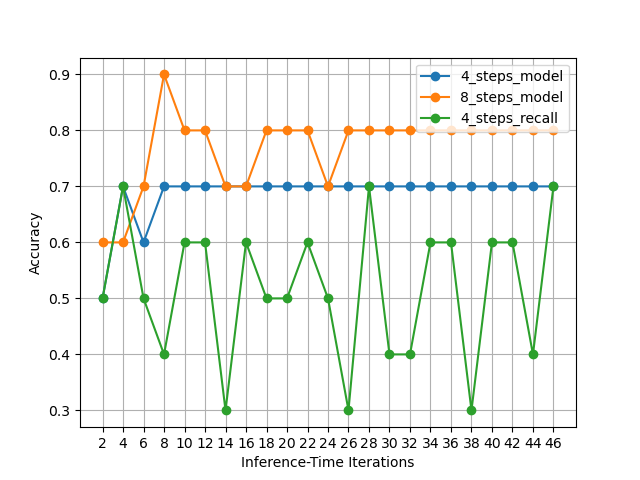
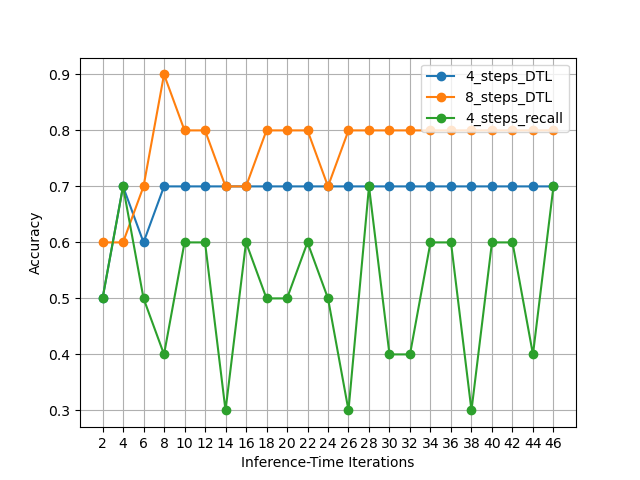
Update

Changed region(s): [[0.6562, 0.125, 0.875, 0.2812]]

diff --git a/code/visualise.py b/code/visualise.py
@@ -43,14 +43,14 @@ def parse_training_log(data):
 
 
 def get_acc_at_iteration_steps(model_path, dataset, device):
-    dataset = ClevrDataset(cfg.DATASET.DATA_DIR, dataset, 'val')
+    dataset = ClevrDataset(cfg.DATASET.DATA_DIR, dataset, 'train_org_long')
     loader = torch.utils.data.DataLoader(dataset, batch_size=cfg.TRAIN.BATCH_SIZE, shuffle=False, drop_last=False, num_workers=cfg.WORKERS, collate_fn=collate_fn)
 
     vocab = mac.load_vocab(cfg)
 
     all_accuracies = []
 
-    for steps in range(4, cfg.TRAIN.MAX_STEPS+1,4):
+    for steps in range(2, cfg.TRAIN.MAX_STEPS+1,2):
         print(f"Validating using inference iteration: {steps}")
         cfg.TRAIN.MAX_STEPS = steps
         model, model_ema = mac.load_MAC(cfg, vocab)
@@ -88,13 +88,13 @@ def log_results(accuracies, model_name, max_steps, file_name=None):
 
     with open(f'../results/{file_name}.txt', 'a') as f:
         f.write(f"-----{model_name} accuracies on {args.set}-----\n")
-        for (iteration, accuracy) in zip(range(4,max_steps,4),accuracies):
+        for (iteration, accuracy) in zip(range(2,max_steps,2),accuracies):
             f.write(f"Iteration {iteration}: {accuracy}\n")
         f.write("\n")
 
 
-def plt_accuracies():
-    with open(f"../results/{args.acc_file}.txt", "r") as f:
+def plt_accuracies(acc_file):
+    with open(f"../results/{acc_file}.txt", "r") as f:
         lines = f.readlines()
         for line in lines:
             if "-----" in line:
@@ -104,19 +104,21 @@ def plt_accuracies():
                 accuracies.append(float(line.split(" ")[-1]))
             elif line == "\n":
                 if "specific" in model_name:
+                    continue
                     plt.plot(range(4, cfg.TRAIN.MAX_STEPS+1, 4), accuracies, label=model_name, marker='o')
                 else:
                     plt.plot(range(2, cfg.TRAIN.MAX_STEPS, 2), accuracies, label=model_name, marker='o')
 
-    # plt.axhline(y=0.9766855460381485, color='r', linestyle='--', label='4_step_recall+specific')
+    plt.axhline(y=0.8512736111594253, color='r', linestyle='--', label='4_steps_MAC')
 
     plt.xlabel("Inference-Time Iterations")
     plt.xticks(range(2, cfg.TRAIN.MAX_STEPS, 2))
     plt.ylabel("Accuracy")
+    plt.ylim(0.3,1)
     plt.legend(loc='upper right')
     plt.grid(True)
 
-    plt.savefig(f'../results/{args.img_name}.png')
+    plt.savefig(f'../results/long_models_results.png')
     plt.show()
 
 def plt_confusion_matrix(answer_path):
@@ -126,14 +128,17 @@ def plt_confusion_matrix(answer_path):
         lines = f.readlines()
 
     for line in lines:
-        if line == "\n":
+        line = line.strip()
+        if line == "":
             continue
-        wrong_answer, correct_answer = line.split(",")
+        wrong_answer, correct_answer = line.strip().split(",")
+        if not correct_answer.isdigit():
+            continue
         correct_answers.append(correct_answer)
         wrong_answers.append(wrong_answer)
 
 
-    classes = sorted(list(set(correct_answers + wrong_answers)))
+    classes = sorted(list(set(map(int, correct_answers + wrong_answers))))
 
     class_to_idx = {cls: idx for idx, cls in enumerate(classes)}
 
@@ -143,17 +148,20 @@ def plt_confusion_matrix(answer_path):
     # Populate the matrix with mismatched results
     for true_label, pred_label in zip(correct_answers, wrong_answers):
         if true_label != pred_label:
-            row = class_to_idx[true_label]
-            col = class_to_idx[pred_label]
+            row = class_to_idx[int(true_label)]
+            col = class_to_idx[int(pred_label)]
             matrix[row][col] += 1
+
+    for i in range(len(classes)):
+        matrix[i][i] = 900
 
     cmap = sns.light_palette("navy", as_cmap=True)
 
-    plt.figure(figsize=(8, 6))
-    sns.heatmap(matrix, annot=False, cmap=cmap,  vmin=0, xticklabels=classes, yticklabels=classes)
+    plt.figure(figsize=(6, 6))
+    sns.heatmap(matrix, annot=False, cmap=cmap,  vmin=0, xticklabels=classes, yticklabels=classes, cbar=False)
     plt.xlabel("Predicted")
     plt.ylabel("True")
-    plt.title("Mismatch Confusion Matrix")
+    plt.title("Confusion matrix on counting problems")
     plt.show()
 
 
@@ -163,13 +171,12 @@ def parse_args():
     parser = argparse.ArgumentParser()
     parser.add_argument('--cfg', dest='cfg_file', help='optional config file', default='..\\cfg\\clevr_train_mac.yml', type=str)
     parser.add_argument('--gpu',  dest='gpu', type=str, default='0')
-    parser.add_argument('--set', dest='set', type=str, choices=['org', 'human', 'hard'], default='hard')
+    parser.add_argument('--set', dest='set', type=str, choices=['org', 'human', 'hard'], default='val')
     parser.add_argument('--max_steps', dest='max_steps', type=int, default=48)
-    parser.add_argument('--img_name', dest='img_name', type=str, default="hard_model_results")
-    parser.add_argument('--acc_file', dest='acc_file', type=str, default='accuracies_hard')
+    parser.add_argument('--img_name', dest='img_name', type=str, default="human_models_results")
+    parser.add_argument('--acc_file', dest='acc_file', type=str, default='accuracies_long')
     parser.add_argument('--model_path', dest='model_path', type=str)
     parser.add_argument('--manualSeed', type=int, help='manual seed')
-    parser.add_argument('--wrong_answers_path', type=str)
     args = parser.parse_args()
     return args
 
@@ -225,12 +232,12 @@ if __name__ == "__main__":
     #     print(justification, count, identification)
 
 
-    #plt_confusion_matrix(args.wrongs_answers_path)
+    # plt_confusion_matrix("..\\results\\wrong_answers_4steps.txt")
 
-    #
-    # train_short_model_path = '../log/10_epochs_4_steps_short_train/Model/model_checkpoint_000010.pth'
+
+    # train_short_model_path = '../log/50_epochs_4_steps_short/Model/model_checkpoint_000050.pth'
     # train_short_accuracies = get_acc_at_iteration_steps(train_short_model_path, args.set, device)
-    # log_results(train_short_accuracies, "short_train_DTL", cfg.TRAIN.MAX_STEPS)
+    # log_results(train_short_accuracies, "4_steps_short_train_DTL", cfg.TRAIN.MAX_STEPS, args.acc_file)
 
     # step_4_model_path = '../log/50_epochs_4_steps_final/Model/model_checkpoint_000050.pth'
     # steps_4_accuracies = get_acc_at_iteration_steps(step_4_model_path, args.set, device)
@@ -257,25 +264,27 @@ if __name__ == "__main__":
     #
     # log_results(recall_step_specific_accuracies, "4_step_DTL_specific", 48, args.acc_file)
 
-    plt_accuracies()
+    # plt_accuracies("accuracies_long")
 
 
-    # with open("../results/test_results.txt", "r") as f:
-    #     model_name = "4_steps_recall_DT"
-    #     lines = f.readlines()
-    #     accuracies = []
-    #     for line in lines:
-    #         accuracies.append(float(line.split(" ")[-1]))
-    #
-    # plt.plot(range(2, cfg.TRAIN.MAX_STEPS, 2), accuracies, label=model_name, marker='o')
-    # plt.axhline(y=0.9766855460381485, color='r', linestyle='--', label='4_step_recall_step_specific')
-    #
-    # plt.xlabel("Inference-Time Iterations")
-    # plt.xticks(range(2, cfg.TRAIN.MAX_STEPS+1, 2))
-    # plt.ylabel("Accuracy")
-    # plt.legend(loc='upper right', bbox_to_anchor=(1, 0.9))
-    # plt.grid(True)
-    # plt.savefig(f'../results/{args.img_name}.png')
+    with open("../results/MAC-DT_results.txt", "r") as f:
+        model_name = "4_steps_recall"
+        lines = f.readlines()
+        accuracies = []
+        for line in lines:
+            accuracies.append(float(line.split(" ")[-1]))
+
+    plt.plot(range(2, 48, 2), accuracies, label=model_name, marker='o')
+    plt.axhline(y=0.9766855460381485, color='r', linestyle='--', label='4_steps_MAC')
+
+    plt.xlabel("Inference-Time Iterations")
+    plt.xticks(range(4, 50, 4))
+    plt.ylabel("Accuracy")
+    plt.ylim(0.5, 1)
+    plt.legend(loc='upper right')
+    plt.grid(True)
+    plt.savefig(f'../results/MAC_vs_MACDT.png')
+    plt.show()
 
 
 

diff --git a/code/validation.py b/code/validation.py
@@ -28,7 +28,7 @@ def parse_args():
 def validate(model_path, device, set):
     print(f"Using inference iteration: {cfg.TRAIN.MAX_STEPS}")
 
-    val_dataset = ClevrDataset(cfg.DATASET.DATA_DIR, set, 'val')
+    val_dataset = ClevrDataset(cfg.DATASET.DATA_DIR, set, 'train_org_long')
     val_loader = torch.utils.data.DataLoader(val_dataset, batch_size=cfg.TRAIN.BATCH_SIZE, shuffle=False, drop_last=False, num_workers=cfg.WORKERS, collate_fn=collate_fn)
 
 
